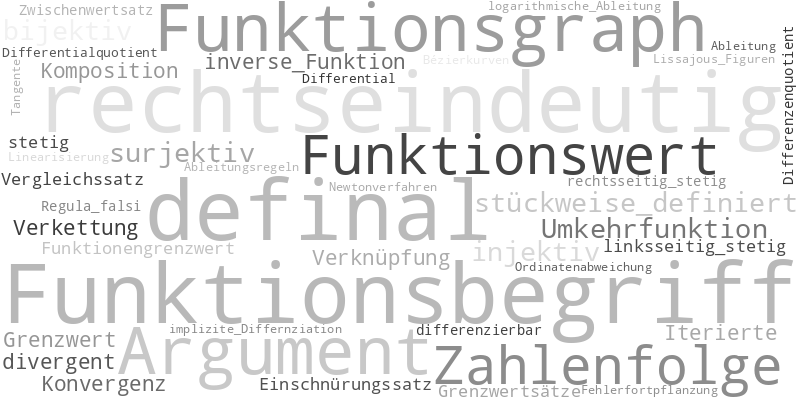
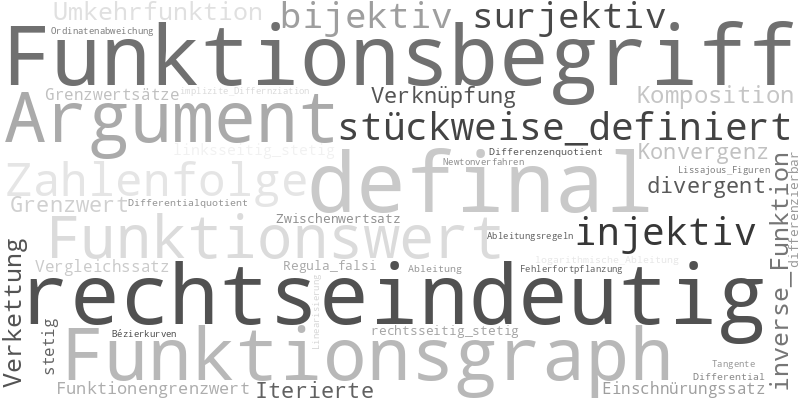
Einleitung zum letzten Abschnitt ergänzt, Wordcloud responsive

diff --git a/README.md b/README.md
@@ -47,8 +47,16 @@ Neben dieser strukturellen Sicht wird hierbei auch sichtbar, wie mathematische A
 
 Für einen Überblick über die Themen dieses Kapitels sehen Sie in der nachstehenden Graphik einige zentrale Begriffe. Schlagen Sie diese in diesem Abschnitt nach.
 
-![Wordcloud Mengen](img/wc_mengen.png)<!-- style="display: block; margin-left: auto; margin-right: auto; max-width: 1000px;" -->
-
+![Mengenlehre und Logik](./img/wc_mengen.png)<!--
+      title = "Zentrale Begriffe und Themen dieses Abschnitts"
+      style = "display: block;
+        margin: 0 auto; 
+        max-width: 100%;  
+        width: 100%;
+        height: auto;
+        border: 1px solid #ddd;
+        border-radius: 4px;"
+    -->
 
 Lernziele
 ====
@@ -967,7 +975,16 @@ In diesem Kapitel soll der Zahlbegriff betrachtet werden. Ein Fokus liegt dabei 
 
 Für einen Überblick über die Themen dieses Kapitels sehen Sie in der nachstehenden Graphik einige zentrale Begriffe. Schlagen Sie diese in diesem Abschnitt nach.
 
-![Wordcloud Gleichungen](img/wc_zahlen.png)<!-- style="display: block; margin-left: auto; margin-right: auto; max-width: 1000px;" -->
+![Zahlen und Gleichungen](./img/wc_zahlen.png)<!--
+      title = "Zentrale Begriffe und Themen dieses Abschnitts"
+      style = "display: block;
+        margin: 0 auto; 
+        max-width: 100%;  
+        width: 100%;
+        height: auto;
+        border: 1px solid #ddd;
+        border-radius: 4px;"
+    -->
 
 
 Lernziele
@@ -2806,7 +2823,16 @@ Ziel dieses Kapitels ist eine Einführung in den Themenbereich der linearen Alge
 
 Für einen Überblick über die Themen dieses Kapitels sehen Sie in der nachstehenden Graphik einige zentrale Begriffe. Schlagen Sie diese in diesem Abschnitt nach.
 
-![Wordcloud Algebra](img/wc_algebra-1.png)<!-- style="display: block; margin-left: auto; margin-right: auto; max-width: 1000px;" -->
+![Lineare Algebra](./img/wc_algebra-1.png)<!--
+      title = "Zentrale Begriffe und Themen dieses Abschnitts"
+      style = "display: block;
+        margin: 0 auto; 
+        max-width: 100%;  
+        width: 100%;
+        height: auto;
+        border: 1px solid #ddd;
+        border-radius: 4px;"
+    -->
 
 
 Lernziele
@@ -5824,7 +5850,16 @@ Im Bezug zur Kraft- und Momentenanalyse in der Statik wird der Fokus auf orienti
 
 Für einen Überblick über die Themen dieses Kapitels sehen Sie in der nachstehenden Graphik einige zentrale Begriffe. Schlagen Sie diese in diesem Abschnitt nach.
 
-![Wordcloud Geometrie](img/wc_analytische-geometrie_v2.png)<!-- style="display: block; margin-left: auto; margin-right: auto; max-width: 1000px;" -->
+![Analytische Geometrie](./img/wc_analytische-geometrie_v2.png)<!--
+      title = "Zentrale Begriffe und Themen dieses Abschnitts"
+      style = "display: block;
+        margin: 0 auto; 
+        max-width: 100%;  
+        width: 100%;
+        height: auto;
+        border: 1px solid #ddd;
+        border-radius: 4px;"
+    -->
 
 
 Lernziele
@@ -6415,20 +6450,42 @@ Für die resultierende Kraft $$ \vec{F}_{res}=\sum_{j=1}^n{\vec{F}_j} $$ und das
 Überblick
 ====
 
-...
+In der Ingenieurwissenschaft, insbesondere im Maschinenbau, ist die Fähigkeit, Veränderungsraten zu beschreiben und zu analysieren, von zentraler Bedeutung. Die Differentialrechnung liefert die mathematischen Werkzeuge dafür. 
+
+* Zunächst wird der [Funktionsbegriff](#Funktionsbegriff) betrachtet: Eine Funktion beschreibt, wie sich ein Ausgabewert (abhängige Variable) ändert, wenn sich ein Eingabewert (unabhängige Variable) verändert. In der Technik repräsentieren Funktionen oft physikalische Zusammenhänge – beispielsweise die Weg-Zeit-Funktion eines bewegten Körpers oder die Temperaturverteilung in einem Bauteil.
+* Ein zentraler Aspekt ist die [Stetigkeit](#Stetigkeit) einer Funktion: Eine Funktion ist stetig, wenn sie keine Sprünge oder Unterbrechungen aufweist. In der Praxis bedeutet das, dass kleine Änderungen der Eingabe zu kleinen Änderungen der Ausgabe führen – eine Voraussetzung dafür, dass physikalische Prozesse realistisch modelliert werden können.
+* Die [Differenzierbarkeit](#Differenzierbarkeit) ist eine stärkere Eigenschaft: Eine Funktion ist differenzierbar, wenn sie an einer Stelle eine eindeutige Tangente besitzt – also eine definierte momentane Änderungsrate (Ableitung). Diese Änderungsrate ist entscheidend, um Geschwindigkeiten, Beschleunigungen oder Spannungen in Bauteilen zu berechnen. Nicht jede stetige Funktion ist differenzierbar – scharfe Ecken oder Knicke sind typische Beispiele für Nicht-Differenzierbarkeit.
+* Das [Differential](#Differential) ist ein mathematisches Konzept, das die lokale lineare Näherung einer Funktion beschreibt. Es ermöglicht, kleine Änderungen der Eingabe auf die resultierende Änderung der Ausgabe zu schätzen – eine Grundlage für Näherungsverfahren und Fehlerabschätzungen in der Technik.
+* Schließlich werden [vektorwertige Funktionen](#Differenzierbarkeit-von-Vektoren) betrachtet, die mehrere Ausgabewerte gleichzeitig beschreiben – beispielsweise die Position eines Robotergelenks im Raum als Funktion der Zeit. Die Differenzierbarkeit solcher Funktionen bedeutet, dass jede Komponente differenzierbar ist. Die Ableitung ist dann ein Vektor, der die Geschwindigkeit oder Richtungsänderung des Objekts beschreibt – ein zentrales Werkzeug in der Kinematik und Dynamik.
 
 Für einen Überblick über die Themen dieses Kapitels sehen Sie in der nachstehenden Graphik einige zentrale Begriffe. Schlagen Sie diese in diesem Abschnitt nach.
 
-<img src="img/wc_funktionen.png" 
-     style="display: block; margin: 0 auto; max-width: 100%; height: auto; width: 100%;" 
-     alt="Beschreibung" />
+![Differentialrechnung](./img/wc_funktionen.png)<!--
+      title = "Zentrale Begriffe und Themen dieses Abschnitts"
+      style = "display: block;
+        margin: 0 auto; 
+        max-width: 100%;  
+        width: 100%;
+        height: auto;
+        border: 1px solid #ddd;
+        border-radius: 4px;"
+    -->
 
 
 Lernziele
 ====
 
+Nach Bearbeitung dieses Abschnitts können Sie:
 
-* ...
+- den Funktionsbegriff korrekt erklären und Beispiele aus dem Maschinenbau (z. B. Weg-Zeit-Gesetze) als Funktionen darstellen.
+- den Begriff der Stetigkeit verstehen und anhand von Graphen oder physikalischen Modellen erkennen, wann eine Funktion stetig ist – insbesondere im Kontext realer technischer Prozesse.
+- die Differenzierbarkeit einer Funktion an einer Stelle erkennen und erklären, warum sie eine stärkere Bedingung als Stetigkeit ist.
+- die Ableitung einer Funktion als momentane Änderungsrate interpretieren und in technischen Kontexten (z. B. Geschwindigkeit, Beschleunigung, Spannungsgradient) anwenden.
+- das Differential als lineare Näherung einer Funktion verstehen und es zur Schätzung kleiner Änderungen nutzen (z. B. bei Fehlerfortpflanzung).
+- vektorwertige Funktionen (z. B. Ortsvektor in Abhängigkeit von der Zeit) erkennen und deren Differenzierbarkeit überprüfen.
+- die Ableitung einer vektorwertigen Funktion interpretieren – insbesondere als Geschwindigkeitsvektor in der Kinematik – und sie in einfachen Anwendungen berechnen.
+
+Diese Lernziele unterstützen Sie dabei, die Differentialrechnung nicht nur als abstraktes mathematisches Werkzeug, sondern als praktisches Instrument für die Modellierung und Analyse technischer Systeme im Maschinenbau zu verstehen.
 
 
 ### Funktionsbegriff
